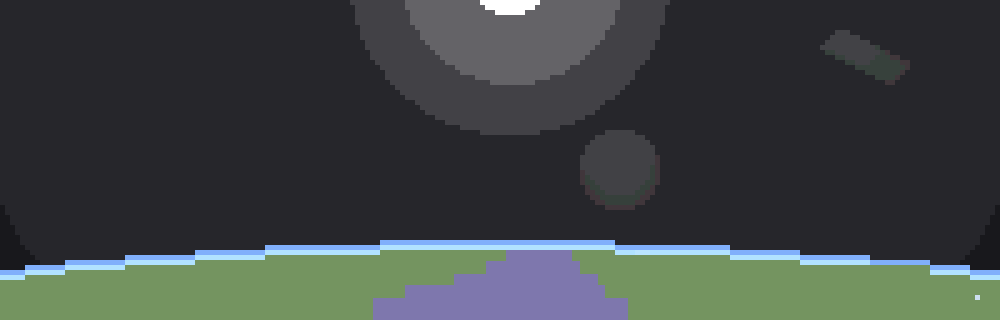
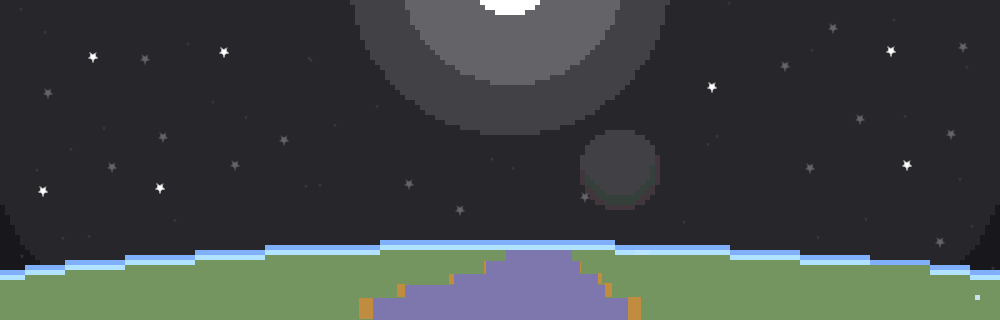
Add rossana pilot night mode

diff --git a/index.css b/index.css
@@ -40,7 +40,7 @@ pilot-choose {
 	position: absolute;
 	width: 100%;
 	height: 100%;
-	background-color: rgba(0,0,0,0.75);
+	background-color: rgba(0,0,0,0.85);
 	border: 8px solid white;
 	z-index: 99;
 }
@@ -78,7 +78,7 @@ pilot-choose pilot-chooser .pick-a-pilot {
 	height: 220px;
 	width: 160px;
 	margin: 0 10px;
-	border: 4px solid #000;
+	border: 6px solid rgba(0,0,0,0.33);
 	text-decoration: none;
 	color: #fff;
 }
@@ -105,7 +105,7 @@ pilot-choose pilot-chooser #restart-game {
 	justify-content: center;
 	align-items: center;
 	padding: 10px 20px;
-	border: 4px solid #000;
+	border: 6px solid rgba(0,0,0,0.33);
 	text-decoration: none;
 	color: #fff;
 	text-transform: uppercase;
@@ -375,13 +375,59 @@ body.pilot-betty screen-row:nth-child(n+9) enemy-pixel {
 }
 
 body.pilot-jack player-pixel:after {
-    content: '';
-    display: block;
-    position: fixed;
-    width: 100%;
-    height: 100%;
-    background-color: #000;
-    top: 0;
-    z-index: 1;
-    transform: translateX(16px);
+	content: '';
+	display: block;
+	position: fixed;
+	width: 100%;
+	height: 100%;
+	background-color: #000;
+	top: 0;
+	z-index: 1;
+	transform: translateX(16px);
+}
+
+body.pilot-rosanna screen-row river-pixel,
+body.pilot-rosanna screen-row enemy-pixel {
+	background-color: #06072d;
+}
+body.pilot-rosanna screen-row enemy-pixel img,
+body.pilot-rosanna screen-row player-pixel img {
+	filter: invert(1);
+}
+
+body.pilot-rosanna screen-row grass-pixel,
+body.pilot-rosanna screen-row mountain-pixel,
+body.pilot-rosanna screen-row forest-pixel {
+	background-color: #091501;
+	opacity: 0.25;
+}
+body.pilot-rosanna screen-row coast-pixel:after,
+body.pilot-rosanna screen-row coast-pixel:before {
+	display: none;
+}
+body.pilot-rosanna screen-row coast-pixel {
+	background-color: #060723;	
+}
+body.pilot-rosanna player-pixel:before {
+	content: '';
+	display: block;
+	position: fixed;
+	width: 100%;
+	height: 100%;
+	background-color: rgba(0,0,0,0.5);
+	top: 0;
+	z-index: 1;
+	transform: translateX(150px) rotate(5deg);
+}
+
+body.pilot-rosanna player-pixel:after {
+	content: '';
+	display: block;
+	position: fixed;
+	width: 100%;
+	height: 100%;
+	background-color: rgba(0,0,0,0.5);
+	top: 0;
+	z-index: 1;
+	transform: translateX(-110%) rotate(-5deg);
 }

diff --git a/index.js b/index.js
@@ -273,12 +273,10 @@ $(document).ready(function(){
 	function fire() {
 		var numberOfFirePixelsPerShot = 2;
 
-		if (storageLastPilot == 'Alexei') {
+		if (storageLastPilot == 'Alexei' || storageLastPilot == 'Vinston') {
 			numberOfFirePixelsPerShot = 3;
-		} else if (storageLastPilot == 'Bob') {
+		} else if (storageLastPilot == 'Bob' || storageLastPilot == 'Rosanna') {
 			numberOfFirePixelsPerShot = 1;
-		}  else if (storageLastPilot == 'Vinston') {
-			numberOfFirePixelsPerShot = 3;
 		}
 
 		if ($('fire-pixel').length < numberOfFirePixelsPerShot) {
